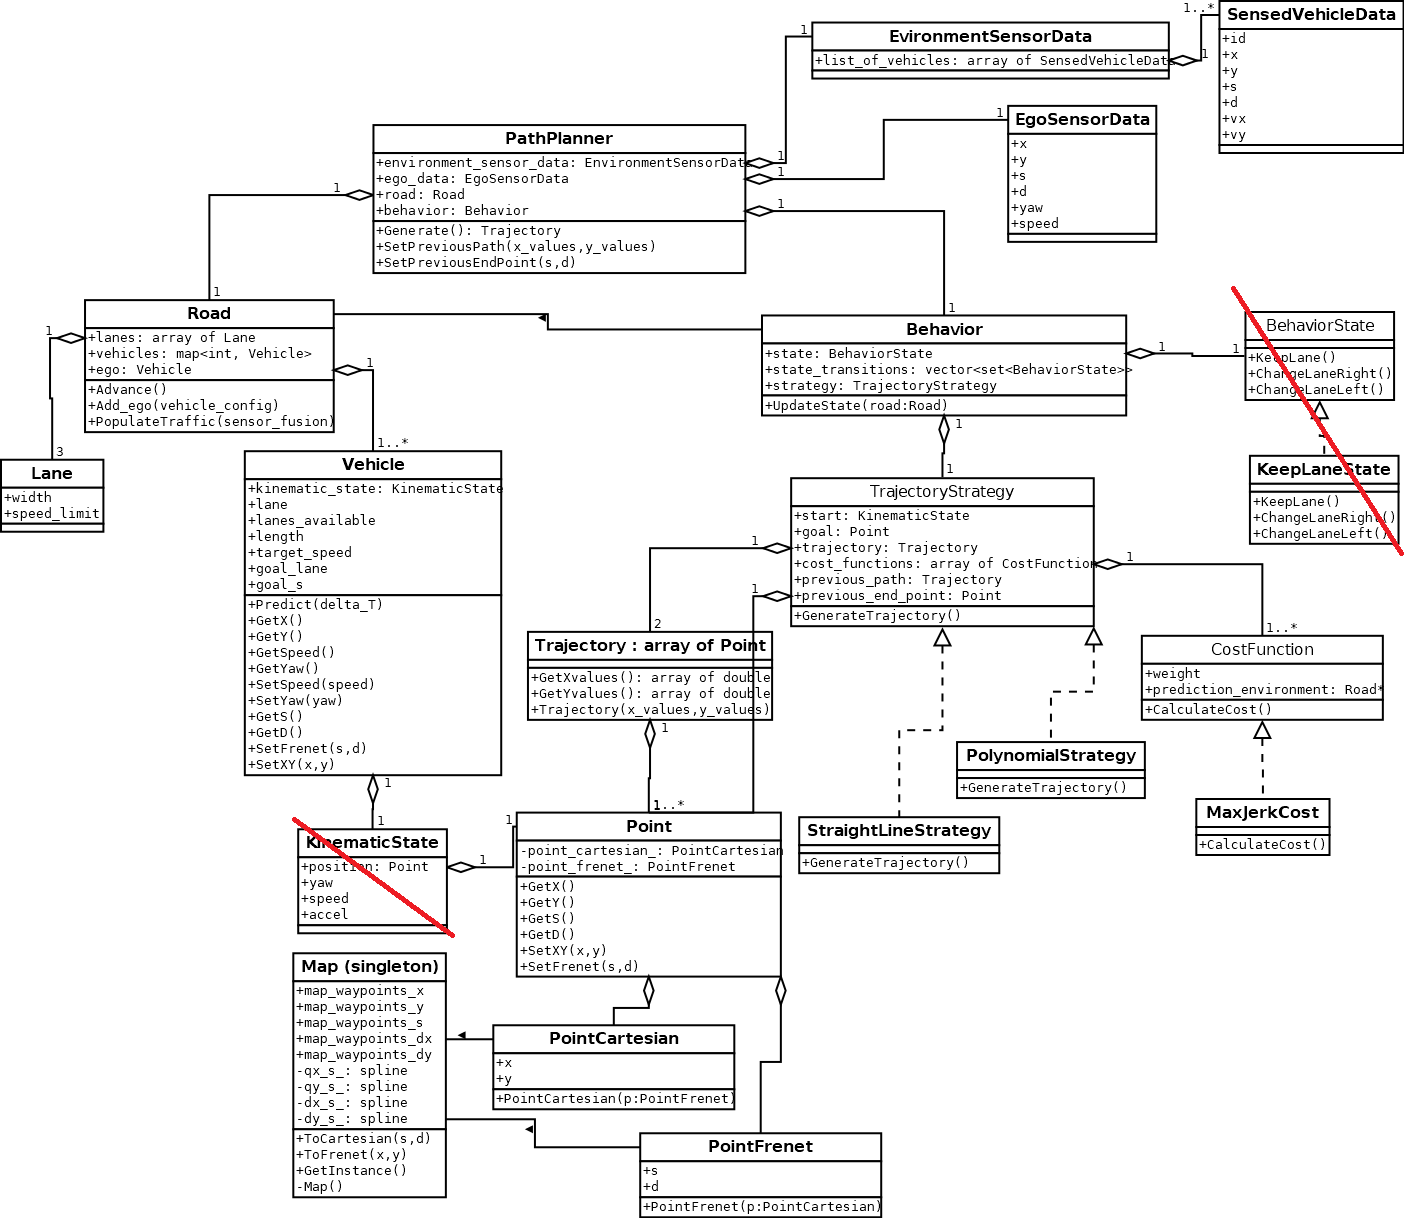
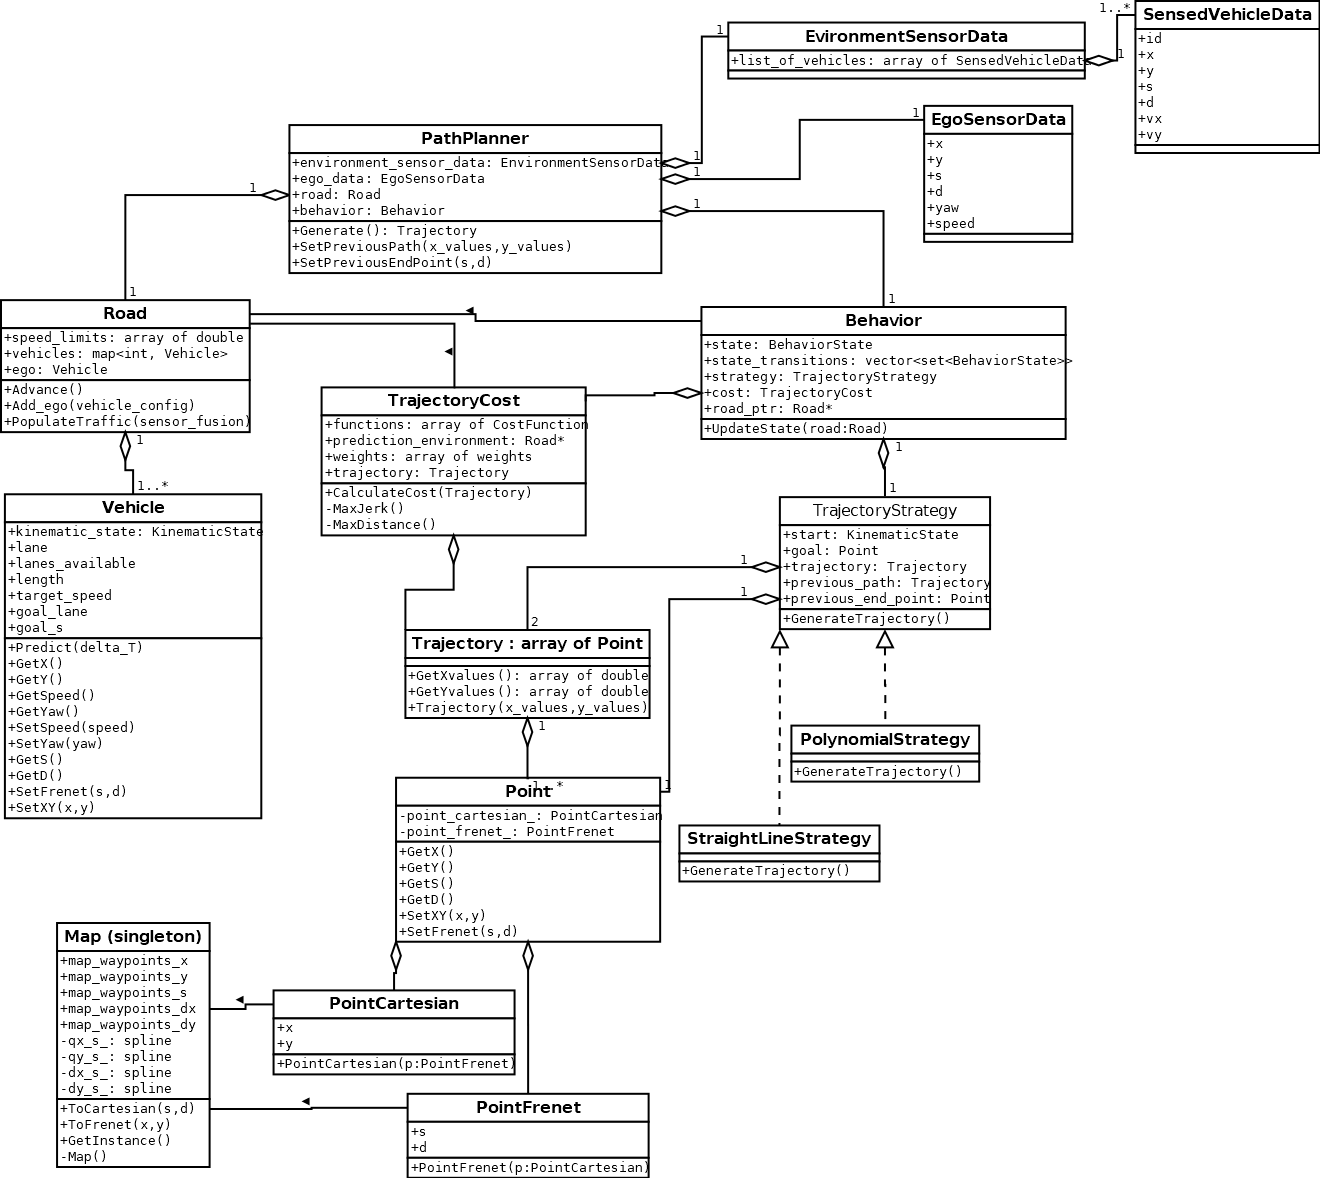
Design of TrajectoryCost class

Changed region(s): [[0.0, 0.0, 1.0, 1.0], [0.8697, 0.2445, 1.0, 0.489], [0.8386, 0.6418, 0.9629, 0.7029]]

diff --git a/src/behavior.cpp b/src/behavior.cpp
@@ -26,12 +26,10 @@ Behavior::Behavior()
 
 // ----------------------------------------------------------------------------
 Behavior::Behavior(Road* road)
+  : road_ptr(road), cost(road)
 {
   LOG(logDEBUG4) << "Behavior::Behavior(Road*)";
-  
-  // Set road pointer
-  this->road_ptr = road;
-  
+
   // Init state
   state = BehaviorState::KEEP_LANE;
   
@@ -133,12 +131,17 @@ void Behavior::UpdateState()
   //   generate the trajectory
   //   calculate the cost associated with it
   //   keep track of the best one (state, trajectory and cost)
+  double min_cost = 10000;
+  Trajectory best_trajectory;
+  BehaviorState best_state;
+  
   for (BehaviorState next_possible_state : state_transitions[state])
   {
     LOG(logDEBUG3) << "Behavior::UpdateState() - Next possible state = " << int(next_possible_state);
     goal_d = GetDDesired(road.ego.lane, next_possible_state);
 
     // Don't get off the road!
+    // TODO: move this condition to a helper function IsGoalDValid(d)
     if (goal_d < 0 || goal_d > (road.GetNumberOfLanes()*road.LANE_WIDTH))
     {
       // this state is invalid
@@ -146,13 +149,27 @@ void Behavior::UpdateState()
     }
 
     // TODO: perturb goal
-    strategy->goal_point = Point(PointFrenet(goal_s, goal_d));
+    // for (each perturbed goal)
+    {
+      strategy->goal_point = Point(PointFrenet(goal_s, goal_d));
 
-    LOG(logDEBUG3) << "Behavior::UpdateState() - strategy->goal_point = \n"
-      << strategy->goal_point;
-    
-    LOG(logDEBUG3) << "Behavior::UpdateState() - calling GenerateTrajectory()";
-    strategy->GenerateTrajectory();
+      LOG(logDEBUG3) << "Behavior::UpdateState() - strategy->goal_point = \n"
+        << strategy->goal_point;
+      
+      LOG(logDEBUG3) << "Behavior::UpdateState() - calling GenerateTrajectory()";
+      strategy->GenerateTrajectory();
+      
+      double temp_cost = cost.CalculateCost(strategy->trajectory);
+      LOG(logDEBUG3) << "Behavior::UpdateState() - temp_cost = " << temp_cost;
+      
+      // Update best values
+      if (temp_cost < min_cost)
+      {
+        min_cost = temp_cost;
+        best_trajectory = strategy->trajectory;
+        best_state = next_possible_state;
+      }
+    }
   }
 }
 

diff --git a/src/trajectory_cost.cpp b/src/trajectory_cost.cpp
@@ -1,0 +1,61 @@
+#include <map>
+
+#include "logger.h"
+#include "road.h"
+#include "trajectory.h"
+#include "trajectory_cost.h"
+
+using namespace std;
+
+// ----------------------------------------------------------------------------
+// PUBLIC
+// ----------------------------------------------------------------------------
+
+// ----------------------------------------------------------------------------
+TrajectoryCost::TrajectoryCost()
+{
+  // Not implemented yet!
+  LOG(logERROR) << "TrajectoryCost::TrajectoryCost() - Not implemented yet!";
+}
+
+// ----------------------------------------------------------------------------
+TrajectoryCost::TrajectoryCost(Road* road)
+  : road_ptr(road)
+{
+  LOG(logDEBUG4) << "TrajectoryCost::TrajectoryCost(Road*)";
+  
+  // TODO: Move this to a configuration file
+
+  // Cost Functions
+  functions[CostFunctions::MAX_JERK] = &TrajectoryCost::MaxJerk;
+  
+  // Weights
+  weights[CostFunctions::MAX_JERK] = 1;
+}
+
+// ----------------------------------------------------------------------------
+TrajectoryCost::~TrajectoryCost()
+{
+}
+
+// ----------------------------------------------------------------------------
+double TrajectoryCost::CalculateCost(Trajectory trajectory)
+{
+  this->trajectory = trajectory;
+
+  double cost = 0;
+  
+  for (auto it : functions)
+  {
+    double weight = weights[it.first]; // TODO: use find and check for valid key
+    cost += weight * (this->*(it.second))();
+  }
+
+  return cost;
+}
+
+// ----------------------------------------------------------------------------
+double TrajectoryCost::MaxJerk()
+{
+  return 1;
+}

diff --git a/src/trajectory_cost.h b/src/trajectory_cost.h
@@ -1,0 +1,46 @@
+#ifndef TRAJECTORY_COST_H
+#define TRAJECTORY_COST_H
+
+#include "road.h"
+#include "trajectory.h"
+
+#include <map>
+
+using namespace std;
+
+class TrajectoryCost {
+public:
+  //! Constructors
+  TrajectoryCost();
+  TrajectoryCost(Road* road);
+  
+  //! Destructor
+  ~TrajectoryCost();
+  
+  //! These are the cost functions available. The constructor must initialize weights and function pointers
+  enum class CostFunctions
+  {
+    MAX_JERK,
+    
+    NUM_COST_FUNCTIONS
+  };
+  
+  typedef double (TrajectoryCost::*pfCostFunction)();
+  
+  map<CostFunctions, pfCostFunction> functions;
+  map<CostFunctions, double> weights;
+  Road* road_ptr;
+  
+  //! Calculate overall cost for the specified trajectory
+  double CalculateCost(Trajectory trajectory);
+  
+  // Cost functions
+  
+  //! Penalize maximum jerk
+  double MaxJerk();
+
+private:
+  Trajectory trajectory;
+};
+
+#endif // TRAJECTORY_COST_H

diff --git a/src/behavior.h b/src/behavior.h
@@ -8,6 +8,7 @@
 #include "road.h"
 #include "trajectory.h"
 #include "trajectory_strategy.h"
+#include "trajectory_cost.h"
 
 using namespace std;
 
@@ -26,6 +27,7 @@ public:
   BehaviorState state;
   map<BehaviorState, set<BehaviorState> > state_transitions;
   TrajectoryStrategy* strategy;
+  TrajectoryCost cost;
   
   // The behavior model can see the road in which it is being applied.
   Road* road_ptr;
